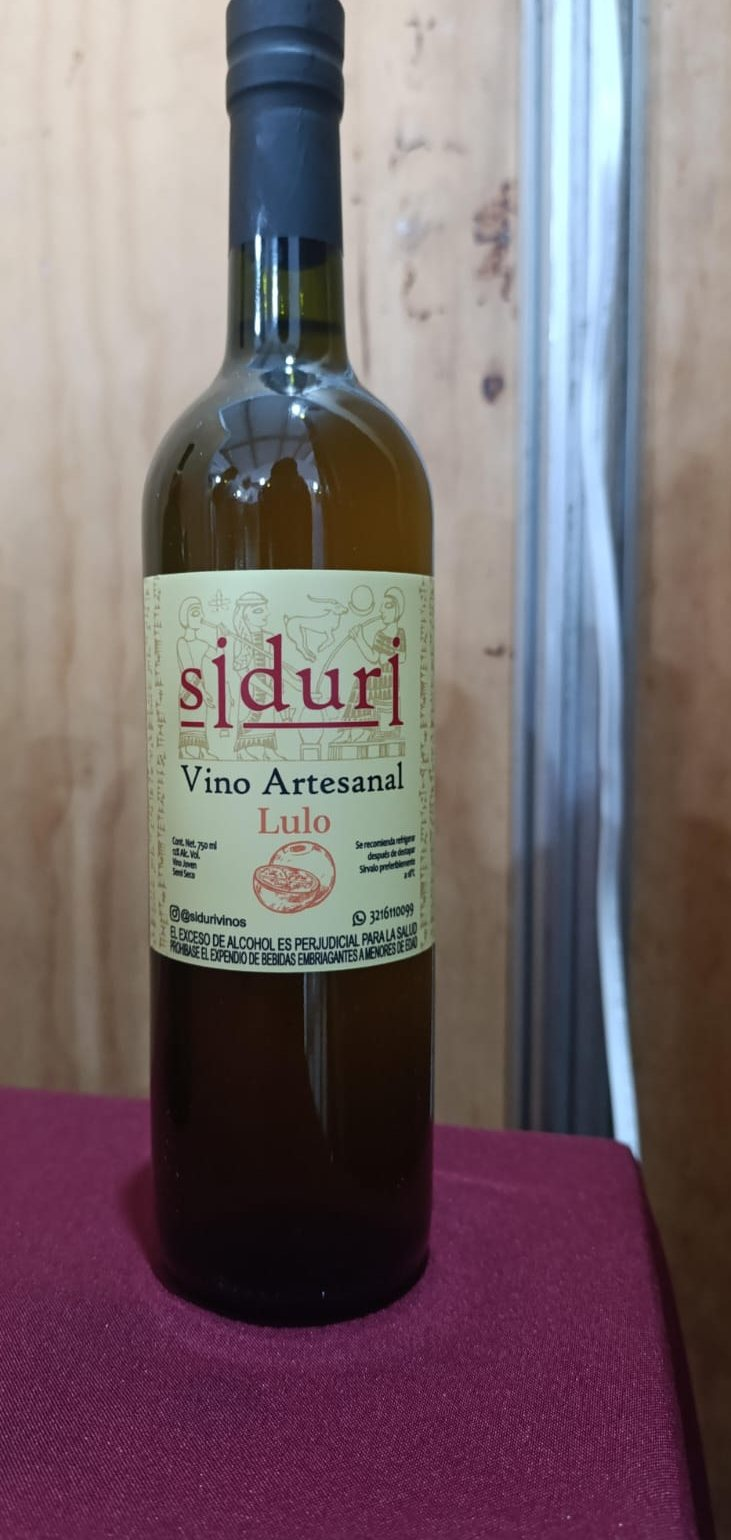
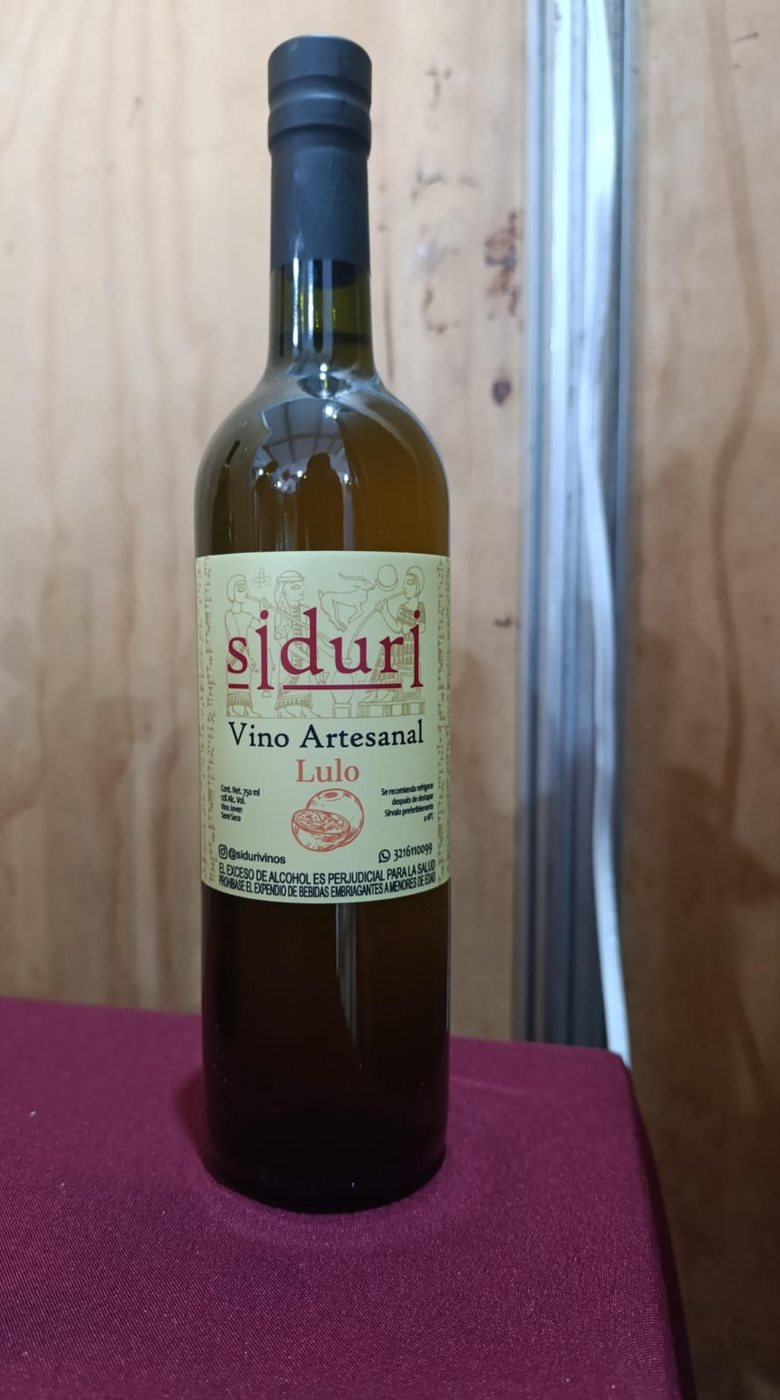
Fotos completas sin recorte, galería y botellas de 330 ml
Claude-Session: https://claude.ai/code/session_01Qv96KXaRvwYH1LTiFMjBxf

diff --git a/index.html b/index.html
@@ -85,7 +85,7 @@ nav a:hover{background:rgba(255,255,255,.1)}
 .b-gold{background:var(--oro);color:var(--vino)}
 .b-line{border:1.5px solid rgba(255,255,255,.5);color:#fff;background:transparent}
 .stage{position:relative;height:520px}
-.stage img{position:absolute;bottom:0;height:480px;width:auto;border-radius:18px;box-shadow:0 25px 60px rgba(0,0,0,.5);transition:all .9s cubic-bezier(.2,.8,.2,1);object-fit:cover}
+.stage img{position:absolute;bottom:0;height:480px;width:auto;max-width:none;border-radius:18px;box-shadow:0 25px 60px rgba(0,0,0,.5);transition:all .9s cubic-bezier(.2,.8,.2,1)}
 .stage img.p0{left:50%;transform:translateX(-50%) scale(1);z-index:3;opacity:1}
 .stage img.p1{left:6%;transform:scale(.78) rotate(-6deg);z-index:2;opacity:.8;filter:brightness(.75)}
 .stage img.px{left:50%;transform:translateX(-50%) scale(.6);z-index:1;opacity:0}
@@ -114,9 +114,9 @@ section{padding:70px 0}
 .grid{display:grid;grid-template-columns:repeat(auto-fill,minmax(290px,1fr));gap:24px}
 .card{background:#fff;border-radius:20px;overflow:hidden;box-shadow:0 10px 30px rgba(58,15,20,.09);display:flex;flex-direction:column;transition:transform .35s,box-shadow .35s}
 .card:hover{transform:translateY(-6px);box-shadow:0 20px 45px rgba(58,15,20,.18)}
-.card .ph{position:relative;height:380px;overflow:hidden;background:#e9dccc}
-.card .ph img{width:100%;height:100%;object-fit:cover;transition:transform 1.2s}
-.card:hover .ph img{transform:scale(1.07)}
+.card .ph{position:relative;height:420px;overflow:hidden;background:radial-gradient(circle at 50% 40%,#fff,#efe3d4);padding:46px 14px 10px}
+.card .ph img{width:100%;height:100%;object-fit:contain;transition:transform 1.2s}
+.card:hover .ph img{transform:scale(1.04)}
 .tag{position:absolute;top:14px;left:14px;background:var(--vino);color:#fff;font-size:11px;font-weight:700;letter-spacing:1px;text-transform:uppercase;padding:6px 10px;border-radius:20px}
 .tag.alt{left:auto;right:14px;background:var(--oro);color:var(--vino)}
 .card .bd{padding:20px;display:flex;flex-direction:column;gap:10px;flex:1}
@@ -137,24 +137,33 @@ section{padding:70px 0}
 .pair{background:linear-gradient(180deg,#fff,var(--crema))}
 .ptabs{display:flex;justify-content:center;gap:8px;flex-wrap:wrap;margin-bottom:24px}
 .pbox{display:grid;grid-template-columns:320px 1fr;gap:30px;align-items:center;background:#fff;border-radius:22px;padding:26px;box-shadow:0 10px 30px rgba(58,15,20,.08)}
-.pbox img{height:380px;width:100%;object-fit:cover;border-radius:16px}
+.pbox img{height:420px;width:100%;object-fit:contain;border-radius:16px;background:#f3ebe1}
 .pbox h3{font-size:34px;color:var(--vino);margin-bottom:8px}
 .pbox ul{list-style:none;display:grid;gap:12px;margin-top:16px}
 .pbox li{padding:12px 16px;background:var(--crema);border-left:4px solid var(--oro);border-radius:8px;font-size:15px}
 .pbox li b{color:var(--vino)}
-@media(max-width:760px){.pbox{grid-template-columns:1fr}.pbox img{height:300px}}
+@media(max-width:760px){.pbox{grid-template-columns:1fr}.pbox img{height:380px}}
 
 /* Ocasiones */
 .occ{background:var(--vino);color:#fff}
 .occ .head h2{color:var(--oro2)}.occ .head p{color:#e6cfc6}
 .ogrid{display:grid;grid-template-columns:repeat(auto-fit,minmax(240px,1fr));gap:18px}
-.ocard{position:relative;border-radius:18px;overflow:hidden;min-height:260px;display:flex;align-items:flex-end}
-.ocard img{position:absolute;inset:0;width:100%;height:100%;object-fit:cover;filter:brightness(.55);transition:transform 1s}
-.ocard:hover img{transform:scale(1.08)}
-.ocard div{position:relative;padding:20px}
+.ocard{border-radius:18px;overflow:hidden;background:rgba(255,255,255,.06);border:1px solid rgba(255,255,255,.12);display:flex;flex-direction:column}
+.ocard img{width:100%;height:340px;object-fit:contain;background:#2a0a0e;transition:transform 1s}
+.ocard:hover img{transform:scale(1.03)}
+.ocard div{padding:18px 20px}
 .ocard h3{font-size:26px;color:var(--oro2)}
 .ocard p{font-size:14px;color:#f3e5de}
 
+/* Galería */
+.gal{columns:3 260px;column-gap:16px}
+.gal figure{break-inside:avoid;margin:0 0 16px;border-radius:16px;overflow:hidden;background:#fff;box-shadow:0 8px 24px rgba(58,15,20,.1);cursor:zoom-in}
+.gal img{width:100%;height:auto;transition:transform .8s}
+.gal figure:hover img{transform:scale(1.03)}
+.gal figcaption{padding:10px 14px;font-size:13px;color:#5b4547}
+#lb{position:fixed;inset:0;z-index:90;background:rgba(10,2,3,.92);display:none;align-items:center;justify-content:center;padding:16px}
+#lb.on{display:flex}
+#lb img{max-width:100%;max-height:92vh;object-fit:contain;border-radius:10px}
 /* Historia / Contacto */
 .story{display:grid;grid-template-columns:1fr 1fr;gap:34px;align-items:center}
 .story .lg{background:#fff;border-radius:22px;padding:30px;box-shadow:0 10px 30px rgba(58,15,20,.08)}
@@ -178,7 +187,7 @@ section{padding:70px 0}
 @keyframes slide{from{transform:translateX(100%)}}
 .pn h2{font-size:32px;color:var(--vino);margin-bottom:14px}
 .line{display:flex;gap:12px;align-items:center;background:#fff;border-radius:12px;padding:10px;margin-bottom:10px}
-.line img{width:52px;height:70px;object-fit:cover;border-radius:8px}
+.line img{width:52px;height:70px;object-fit:contain;background:#f3ebe1;border-radius:8px}
 .line div{flex:1;font-size:14px}
 .line b{display:block;color:var(--vino)}
 .x{background:none;border:0;color:var(--gris);font-size:13px;text-decoration:underline}
@@ -199,7 +208,7 @@ footer p{margin-bottom:8px}
 #modal{position:fixed;inset:0;z-index:70;background:rgba(20,5,7,.7);display:none;align-items:center;justify-content:center;padding:18px}
 #modal.on{display:flex}
 #modal .mb{background:#fff;border-radius:20px;max-width:760px;width:100%;max-height:92vh;overflow:auto;display:grid;grid-template-columns:300px 1fr}
-#modal .mb img{width:100%;height:100%;min-height:380px;object-fit:cover}
+#modal .mb img{width:100%;height:100%;min-height:380px;max-height:92vh;object-fit:contain;background:#f3ebe1}
 #modal .mt{padding:24px;position:relative}
 #modal h3{font-size:34px;color:var(--vino)}
 #modal p{margin:10px 0;color:#5b4547;font-size:15px}
@@ -229,6 +238,7 @@ footer p{margin-bottom:8px}
       <a href="#vinos" data-i="n1">Vinos</a>
       <a href="#maridaje" data-i="n2">Maridaje</a>
       <a href="#ocasiones" data-i="n3">Regalos</a>
+      <a href="#galeria" data-i="n6">Galería</a>
       <a href="#contacto" data-i="n4">Contacto</a>
       <button class="lang" onclick="setLang(lang==='es'?'en':'es')" id="lbtn">EN</button>
       <button class="cartbtn" onclick="openCart()"><span data-i="n5">Pedido</span> (<span id="cc">0</span>)</button>
@@ -265,7 +275,7 @@ footer p{margin-bottom:8px}
     <div class="head reveal">
       <span class="eyebrow" style="color:var(--uva)" data-i="v_e">Nuestra cava</span>
       <h2 data-i="v_t">Vinos artesanales</h2>
-      <p data-i="v_p">Botellas de 750 ml y mini de 178 ml, elaboradas en Colombia por productores artesanales. Escoge, suma a tu pedido y lo enviamos por WhatsApp.</p>
+      <p data-i="v_p">Botellas de 750 ml, personales de 330 ml y mini de 178 ml, elaboradas en Colombia por productores artesanales. Escoge, suma a tu pedido y lo enviamos por WhatsApp.</p>
     </div>
     <div class="filters" id="filters"></div>
     <div class="grid" id="grid"></div>
@@ -293,6 +303,17 @@ footer p{margin-bottom:8px}
     </div>
     <div class="ogrid" id="ogrid"></div>
     <div style="text-align:center;margin-top:28px"><a class="btn b-gold" target="_blank" rel="noopener" id="waGift" data-i="o_b">Cotizar regalos por WhatsApp</a></div>
+  </div>
+</section>
+
+<section id="galeria" style="background:#fff">
+  <div class="wrap">
+    <div class="head reveal">
+      <span class="eyebrow" style="color:var(--uva)" data-i="ga_e">Fotos reales</span>
+      <h2 data-i="ga_t">Galería de la cava</h2>
+      <p data-i="ga_p">Así lucen nuestros vinos en el stand. Toca una foto para verla en grande.</p>
+    </div>
+    <div class="gal" id="gal"></div>
   </div>
 </section>
 
@@ -350,6 +371,7 @@ footer p{margin-bottom:8px}
 <a class="fab" target="_blank" rel="noopener" id="waFab">WhatsApp</a>
 <button id="install" data-i="inst">Instalar app</button>
 <div id="toast"></div>
+<div id="lb" onclick="this.classList.remove('on')"><img id="lbi" alt=""></div>
 
 <div id="modal" onclick="if(event.target===this)this.classList.remove('on')"><div class="mb" id="mb"></div></div>
 
@@ -385,7 +407,7 @@ const VINOS=[
  {id:'siduri-lulo',img:'img/siduri-lulo.jpg',marca:'Siduri',precio:0,tipo:'blanco',
   n:{es:'Lulo',en:'Lulo'},
   d:{es:'Vino artesanal joven y semiseco de lulo. Fresco, ácido y aromático. Se recomienda refrigerar después de destapar.',en:'Young, semi-dry craft wine made from lulo. Fresh, tangy and aromatic. Keep refrigerated after opening.'},
-  s:{es:['750 ml','Vino joven','Semiseco','Servir bien frío'],en:['750 ml','Young wine','Semi-dry','Serve well chilled']},
+  s:{es:['750 ml','12% Alc.','Vino joven','Semiseco'],en:['750 ml','12% ABV','Young wine','Semi-dry']},
   tag:{es:'Fresco',en:'Fresh'}},
  {id:'siduri-mora-cafe',img:'img/siduri-mora-cafe.jpg',marca:'Siduri',precio:0,tipo:'dulce',
   n:{es:'Mora & Café',en:'Blackberry & Coffee'},
@@ -401,26 +423,48 @@ const VINOS=[
   n:{es:'Corozo Mini',en:'Corozo Mini'},
   d:{es:'El mismo vino artesanal de corozo de Ayapel en botellita de 178 ml: perfecto para probarlo, para detalles y recordatorios de evento.',en:'The same Ayapel corozo craft wine in a 178 ml mini bottle: perfect to try it, for small gifts and event favors.'},
   s:{es:['178 ml','8% Alc.','Ayapel, Córdoba','Ideal para detalles'],en:['178 ml','8% ABV','Ayapel, Córdoba','Great for favors']},
-  tag:{es:'Mini',en:'Mini'}}
+  tag:{es:'Mini',en:'Mini'}},
+ {id:'contra-corriente-330',img:'img/minis-330.jpg',marca:'Contra Corriente',precio:0,tipo:'dulce',ml:'330 ml',
+  n:{es:'Uva Isabella 330 ml',en:'Isabella Grape 330 ml'},
+  d:{es:'La botella personal de Contra Corriente: el mismo vino dulce de uva isabella en 330 ml, lista para regalar con su moño y flores.',en:'The personal-size Contra Corriente: the same sweet Isabella grape wine in 330 ml, gift-ready with ribbon and flowers.'},
+  s:{es:['330 ml','12% Alc.','Dulce','Para regalar'],en:['330 ml','12% ABV','Sweet','Gift-ready']},
+  tag:{es:'Personal',en:'Personal'}},
+ {id:'siduri-mora-cafe-330',img:'img/minis-330.jpg',marca:'Siduri',precio:0,tipo:'dulce',ml:'330 ml',
+  n:{es:'Mora & Café 330 ml',en:'Blackberry & Coffee 330 ml'},
+  d:{es:'Siduri Mora & Café en botella personal de 330 ml: dulce, con notas de café, ideal como detalle o para probarlo.',en:'Siduri Blackberry & Coffee in a 330 ml personal bottle: sweet with coffee notes, a perfect small gift.'},
+  s:{es:['330 ml','Dulce','Mora y café','Para regalar'],en:['330 ml','Sweet','Blackberry & coffee','Gift-ready']},
+  tag:{es:'Personal',en:'Personal'}}
 ];
 const PAIR={
  'sabana-toro':{es:[['Carnes asadas','Res, cerdo o chorizo a la brasa.'],['Quesos costeños','Queso costeño, de capa o mozzarella.'],['Servicio','Ligeramente frío, entre 12 y 14 °C.']],en:[['Grilled meats','Beef, pork or chorizo off the grill.'],['Coastal cheeses','Queso costeño or fresh mozzarella.'],['Serving','Lightly chilled, 12–14 °C.']]},
  'siduri-lulo':{es:[['Pescado y mariscos','Bocachico frito, ceviche, camarones.'],['Comida picante','Equilibra el ají y las salsas.'],['Servicio','Bien frío, entre 6 y 8 °C. Refrigerar tras destapar.']],en:[['Fish & seafood','Fried fish, ceviche, shrimp.'],['Spicy food','Balances chili and hot sauces.'],['Serving','Well chilled, 6–8 °C. Refrigerate after opening.']]},
  'contra-corriente':{es:[['Quesos y frutas','Tabla de quesos suaves, uvas y bocadillo.'],['Postres','Tortas, flan o arroz con leche.'],['Servicio','Frío, entre 8 y 10 °C.']],en:[['Cheese & fruit','Mild cheese board, grapes and guava paste.'],['Desserts','Cakes, flan or rice pudding.'],['Serving','Chilled, 8–10 °C.']]},
  'sabana-toro-mini':{es:[['Picadas','Chicharrón, butifarra, queso frito.'],['Detalles','Recordatorios de boda, grado o empresa.'],['Servicio','Ligeramente frío, entre 12 y 14 °C.']],en:[['Snack platters','Pork rinds, sausage, fried cheese.'],['Favors','Wedding, graduation or company gifts.'],['Serving','Lightly chilled, 12–14 °C.']]},
+ 'contra-corriente-330':{es:[['Quesos y frutas','Tabla de quesos suaves, uvas y bocadillo.'],['Detalle','Con su moño y flores, lista para regalar.'],['Servicio','Frío, entre 8 y 10 °C.']],en:[['Cheese & fruit','Mild cheese, grapes and guava paste.'],['Gift','With ribbon and flowers, ready to give.'],['Serving','Chilled, 8–10 °C.']]},
+ 'siduri-mora-cafe-330':{es:[['Postres','Brownie, torta de chocolate, cuchareables.'],['Detalle','Perfecta para un regalo pequeño.'],['Servicio','Frío, entre 8 y 10 °C.']],en:[['Desserts','Brownies, chocolate cake, sweet treats.'],['Gift','Perfect as a small gift.'],['Serving','Chilled, 8–10 °C.']]},
  'siduri-mora-cafe':{es:[['Postres','Torta de chocolate, brownie, cuchareables.'],['Sobremesa','Después de la comida, con un buen tinto.'],['Servicio','Frío, entre 8 y 10 °C.']],en:[['Desserts','Chocolate cake, brownies, sweet treats.'],['After dinner','Paired with a cup of Colombian coffee.'],['Serving','Chilled, 8–10 °C.']]}
 };
 const OCC=[
- {img:'img/sabana-toro.jpg',es:['Navidad y fin de año','La botella de la cena familiar, con sabor de la región.'],en:['Christmas & New Year','The bottle for the family dinner, with a local taste.']},
- {img:'img/siduri-mora-cafe.jpg',es:['Regalo especial','Mora & Café para quien ama lo dulce y el café.'],en:['Special gift','Blackberry & Coffee for those who love sweets and coffee.']},
+ {img:'img/sabana-toro-estante.jpg',es:['Navidad y fin de año','La botella de la cena familiar, con sabor de la región.'],en:['Christmas & New Year','The bottle for the family dinner, with a local taste.']},
+ {img:'img/minis-330.jpg',es:['Regalo especial','Botellas personales de 330 ml con moño y flores.'],en:['Special gift','330 ml personal bottles with ribbon and flowers.']},
  {img:'img/sabana-toro-mini.jpg',es:['Recordatorios y detalles','Botellitas de 178 ml para bodas, grados y empresas.'],en:['Favors & small gifts','178 ml minis for weddings, graduations and companies.']},
- {img:'img/contra-corriente.jpg',es:['Detalles de empresa','Pedidos de varias botellas para clientes y equipo.'],en:['Corporate gifts','Multi-bottle orders for clients and staff.']}
+ {img:'img/contra-corriente-girasol.jpg',es:['Detalles de empresa','Pedidos de varias botellas para clientes y equipo.'],en:['Corporate gifts','Multi-bottle orders for clients and staff.']}
 ];
+const GAL=[
+ ['img/contra-corriente-mano.jpg',{es:'Contra Corriente, uva isabella 750 ml',en:'Contra Corriente, Isabella grape 750 ml'}],
+ ['img/minis-330.jpg',{es:'Botellas personales de 330 ml',en:'330 ml personal bottles'}],
+ ['img/sabana-toro-estante.jpg',{es:'Sabana & Toro, vino de corozo',en:'Sabana & Toro, corozo wine'}],
+ ['img/siduri-lulo-2.jpg',{es:'Siduri Lulo, semiseco',en:'Siduri Lulo, semi-dry'}],
+ ['img/contra-corriente-girasol.jpg',{es:'Listo para regalar',en:'Ready to gift'}],
+ ['img/sabana-toro-mini.jpg',{es:'Sabana & Toro mini 178 ml',en:'Sabana & Toro mini 178 ml'}],
+ ['img/siduri-mora-cafe.jpg',{es:'Siduri Mora & Café',en:'Siduri Blackberry & Coffee'}]
+];
+function zoom(src){$('#lbi').src=src;$('#lb').classList.add('on')}
 const T={
  es:{g_t:'¿Eres mayor de 18 años?',g_p:'Para entrar a Cava Ancestral debes ser mayor de edad. La venta de bebidas alcohólicas a menores de edad está prohibida en Colombia.',g_si:'Sí, soy mayor',g_no:'No',g_lang:'English',
-  n1:'Vinos',n2:'Maridaje',n3:'Regalos',n4:'Contacto',n5:'Pedido',
+  n1:'Vinos',n2:'Maridaje',n3:'Regalos',n4:'Contacto',n5:'Pedido',n6:'Galería',ga_e:'Fotos reales',ga_t:'Galería de la cava',ga_p:'Así lucen nuestros vinos en el stand. Toca una foto para verla en grande.',
   h_e:'Licores artesanales · Caucasia, Antioquia',h_t:'El sabor de nuestra tierra, <em>en una copa</em>',h_p:'Vinos artesanales hechos con frutos de la región: corozo de la sabana de Ayapel, uva isabella, lulo y mora con café. Pídelos por WhatsApp y te los llevamos.',h_b1:'Ver los vinos',h_b2:'Pedir por WhatsApp',
-  v_e:'Nuestra cava',v_t:'Vinos artesanales',v_p:'Botellas de 750 ml y mini de 178 ml, elaboradas en Colombia por productores artesanales. Escoge, suma a tu pedido y lo enviamos por WhatsApp.',
+  v_e:'Nuestra cava',v_t:'Vinos artesanales',v_p:'Botellas de 750 ml, personales de 330 ml y mini de 178 ml, elaboradas en Colombia por productores artesanales. Escoge, suma a tu pedido y lo enviamos por WhatsApp.',
   m_e:'Cómo disfrutarlos',m_t:'Maridaje y servicio',m_p:'Toca cada vino y mira con qué comidas de la casa queda mejor y cómo servirlo.',
   o_e:'Para regalar',o_t:'Una botella para cada ocasión',o_p:'Navidad, fin de año, cumpleaños o un detalle para la empresa. Pregunta por pedidos de varias botellas.',o_b:'Cotizar regalos por WhatsApp',
   s_e:'Quiénes somos',s_t:'Lo ancestral se guarda en la cava',s_p1:'Cava Ancestral es una tienda de licores artesanales en Caucasia. Reunimos vinos hechos a mano por productores de la región, con frutos que conocemos desde siempre.',s_p2:'Del corozo de las sabanas de Ayapel, Córdoba, al lulo y la mora con café: sabores nuestros, con la calidez de lo que se hace en casa.',
@@ -433,12 +477,12 @@ const T={
   open:'Abierto ahora · cierra a las 10:00 p. m.',closed:'Cerrado ahora · abre a las 10:00 a. m.',empty:'Aún no has agregado botellas.',quitar:'Quitar',added:'Agregado al pedido',need:'Agrega al menos una botella',need18:'Confirma que eres mayor de 18 años',
   days:['Domingo','Lunes','Martes','Miércoles','Jueves','Viernes','Sábado'],hr:'10:00 a. m. – 10:00 p. m.',
   waHi:'Hola Cava Ancestral, vi su app y quiero hacer un pedido.',waGift:'Hola Cava Ancestral, quiero cotizar botellas para regalo.',
-  tk:['Vino de corozo de Ayapel','Nuevo: Contra Corriente uva isabella','Sabana & Toro mini 178 ml','Siduri Lulo','Siduri Mora & Café','Domicilios en Caucasia','Abierto todos los días 10 a. m. – 10 p. m.','Regalos de Navidad'],
+  tk:['Vino de corozo de Ayapel','Nuevo: Contra Corriente uva isabella','Sabana & Toro mini 178 ml','Botellas personales de 330 ml','Siduri Lulo','Siduri Mora & Café','Domicilios en Caucasia','Abierto todos los días 10 a. m. – 10 p. m.','Regalos de Navidad'],
   noAge:'Gracias por tu honestidad. Vuelve cuando seas mayor de edad.'},
  en:{g_t:'Are you over 18?',g_p:'You must be of legal age to enter Cava Ancestral. Selling alcohol to minors is prohibited in Colombia.',g_si:'Yes, I am 18+',g_no:'No',g_lang:'Español',
-  n1:'Wines',n2:'Pairing',n3:'Gifts',n4:'Contact',n5:'Order',
+  n1:'Wines',n2:'Pairing',n3:'Gifts',n4:'Contact',n5:'Order',n6:'Gallery',ga_e:'Real photos',ga_t:'Cellar gallery',ga_p:'This is how our wines look at the stand. Tap a photo to see it full size.',
   h_e:'Craft liquors · Caucasia, Antioquia',h_t:'The taste of our land, <em>in a glass</em>',h_p:'Craft wines made with regional fruit: corozo from the Ayapel savanna, Isabella grapes, lulo, and blackberry with coffee. Order on WhatsApp and we deliver.',h_b1:'See the wines',h_b2:'Order on WhatsApp',
-  v_e:'Our cellar',v_t:'Craft wines',v_p:'750 ml bottles and 178 ml minis, made in Colombia by small craft producers. Pick, add to your order and send it on WhatsApp.',
+  v_e:'Our cellar',v_t:'Craft wines',v_p:'750 ml bottles, 330 ml personal bottles and 178 ml minis, made in Colombia by small craft producers. Pick, add to your order and send it on WhatsApp.',
   m_e:'How to enjoy them',m_t:'Pairing & serving',m_p:'Tap each wine to see which foods it goes best with and how to serve it.',
   o_e:'Gifting',o_t:'A bottle for every occasion',o_p:'Christmas, New Year, birthdays or a corporate gift. Ask about multi-bottle orders.',o_b:'Ask for gift prices on WhatsApp',
   s_e:'About us',s_t:'Ancestral flavors, kept in the cellar',s_p1:'Cava Ancestral is a craft liquor shop in Caucasia. We bring together handmade wines from local producers, made with fruits we have always known.',s_p2:'From the corozo of the Ayapel savannas in Córdoba to lulo and blackberry with coffee: our own flavors, with the warmth of homemade.',
@@ -451,7 +495,7 @@ const T={
   open:'Open now · closes at 10:00 p.m.',closed:'Closed now · opens at 10:00 a.m.',empty:'No bottles added yet.',quitar:'Remove',added:'Added to your order',need:'Add at least one bottle',need18:'Please confirm you are over 18',
   days:['Sunday','Monday','Tuesday','Wednesday','Thursday','Friday','Saturday'],hr:'10:00 a.m. – 10:00 p.m.',
   waHi:'Hello Cava Ancestral, I saw your app and want to place an order.',waGift:'Hello Cava Ancestral, I would like a quote for gift bottles.',
-  tk:['Corozo wine from Ayapel','New: Contra Corriente Isabella grape','Sabana & Toro mini 178 ml','Siduri Lulo','Siduri Blackberry & Coffee','Delivery in Caucasia','Open daily 10 a.m. – 10 p.m.','Christmas gifts'],
+  tk:['Corozo wine from Ayapel','New: Contra Corriente Isabella grape','Sabana & Toro mini 178 ml','Botellas personales de 330 ml','Siduri Lulo','Siduri Blackberry & Coffee','Delivery in Caucasia','Open daily 10 a.m. – 10 p.m.','Christmas gifts'],
   noAge:'Thank you for your honesty. Please come back when you are of legal age.'}
 };
 let lang=(()=>{try{return localStorage.getItem('cava_lang')||'es'}catch(e){return 'es'}})();
@@ -490,6 +534,7 @@ function render(){
   const V=VINOS.find(v=>v.id===par);
   $('#pbox').innerHTML=`<img src="${V.img}" alt="${V.marca}"><div><span class="mk" style="font-size:12px;letter-spacing:2px;color:var(--uva);font-weight:700">${V.marca}</span><h3>${V.n[lang]}</h3><p style="color:#5b4547">${V.d[lang]}</p><ul>${PAIR[par][lang].map(p=>`<li><b>${p[0]}:</b> ${p[1]}</li>`).join('')}</ul></div>`;
   $('#ogrid').innerHTML=OCC.map(o=>`<div class="ocard reveal in"><img src="${o.img}" alt="" loading="lazy"><div><h3>${o[lang][0]}</h3><p>${o[lang][1]}</p></div></div>`).join('');
+  $('#gal').innerHTML=GAL.map(g=>`<figure onclick="zoom('${g[0]}')"><img src="${g[0]}" alt="${g[1][lang]}" loading="lazy"><figcaption>${g[1][lang]}</figcaption></figure>`).join('');
   const tk=t('tk').map(x=>`<span>${x}</span>`).join('<span>·</span>');$('#tk').innerHTML=tk+'<span>·</span>'+tk+'<span>·</span>';
   ['#waHero','#waC','#waFab'].forEach(s=>$(s).href=wa(t('waHi')));$('#waGift').href=wa(t('waGift'));
   status();count();lines();

diff --git a/sw.js b/sw.js
@@ -1,7 +1,7 @@
 // Cava Ancestral — Service Worker · Desarrollada por Vibras Positivas HM
-const C = 'cava-ancestral-v2';
+const C = 'cava-ancestral-v3';
 const FILES = ['./', 'index.html', 'manifest.json', 'img/logo.jpg', 'img/icon-192.png', 'img/icon-512.png',
-  'img/sabana-toro.jpg', 'img/siduri-lulo.jpg', 'img/siduri-mora-cafe.jpg', 'img/contra-corriente.jpg', 'img/sabana-toro-mini.jpg', 'img/og-image.jpg'];
+  'img/sabana-toro.jpg', 'img/siduri-lulo.jpg', 'img/siduri-mora-cafe.jpg', 'img/contra-corriente.jpg', 'img/sabana-toro-mini.jpg', 'img/minis-330.jpg', 'img/contra-corriente-girasol.jpg', 'img/siduri-lulo-2.jpg', 'img/sabana-toro-estante.jpg', 'img/contra-corriente-mano.jpg', 'img/og-image.jpg'];
 self.addEventListener('install', e => { e.waitUntil(caches.open(C).then(c => c.addAll(FILES))); self.skipWaiting(); });
 self.addEventListener('activate', e => {
   e.waitUntil(caches.keys().then(ks => Promise.all(ks.filter(k => k !== C).map(k => caches.delete(k)))));

diff --git a/README.md b/README.md
@@ -8,7 +8,7 @@ App (PWA) de Cava Ancestral, tienda de vinos y licores artesanales en Caucasia, 
 
 ## Qué trae
 - Verificación de mayoría de edad al entrar (+18)
-- Catálogo con fotos reales: Sabana & Toro (vino de corozo, Ayapel), Sabana & Toro mini 178 ml, Contra Corriente (uva isabella, dulce, 12%), Siduri Lulo y Siduri Mora & Café
+- Catálogo con fotos reales: Sabana & Toro (vino de corozo, Ayapel), Sabana & Toro mini 178 ml, Contra Corriente (uva isabella, dulce, 12%), botellas personales de 330 ml (Contra Corriente y Mora & Café), Siduri Lulo y Siduri Mora & Café; galería de fotos reales completas
 - Pedido con carrito que se envía por WhatsApp (domicilio, recogida o envío)
 - Maridaje y temperatura de servicio de cada vino, sección de regalos
 - Estado "Abierto ahora / Cerrado" con la hora real de Bogotá
@@ -19,7 +19,7 @@ App (PWA) de Cava Ancestral, tienda de vinos y licores artesanales en Caucasia, 
 En `index.html`, dentro de `VINOS`, cambia `precio:0` por el valor (ej. `precio:45000`). En 0 aparece "Precio por WhatsApp".
 
 ## Archivos
-`index.html`, `manifest.json`, `sw.js`, `README.md` y la carpeta `img/` (logo.jpg, icon-192.png, icon-512.png, sabana-toro.jpg, siduri-lulo.jpg, siduri-mora-cafe.jpg, contra-corriente.jpg, sabana-toro-mini.jpg, og-image.jpg).
+`index.html`, `manifest.json`, `sw.js`, `README.md` y la carpeta `img/` (logo.jpg, icon-192.png, icon-512.png, sabana-toro.jpg, siduri-lulo.jpg, siduri-mora-cafe.jpg, contra-corriente.jpg, sabana-toro-mini.jpg, minis-330.jpg, contra-corriente-girasol.jpg, contra-corriente-mano.jpg, siduri-lulo-2.jpg, sabana-toro-estante.jpg, og-image.jpg).
 
 Licencia: 7 nov 2026 – 7 may 2027 (6 meses).
 
